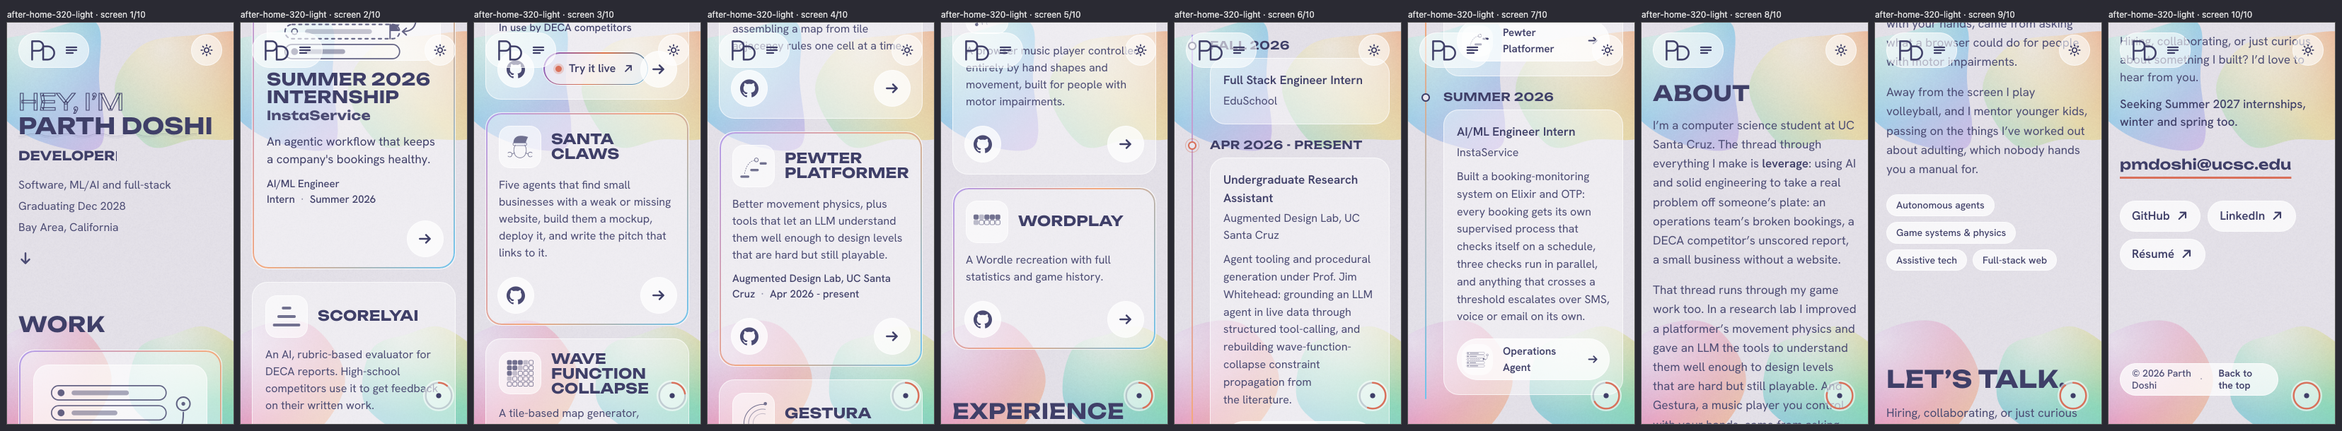
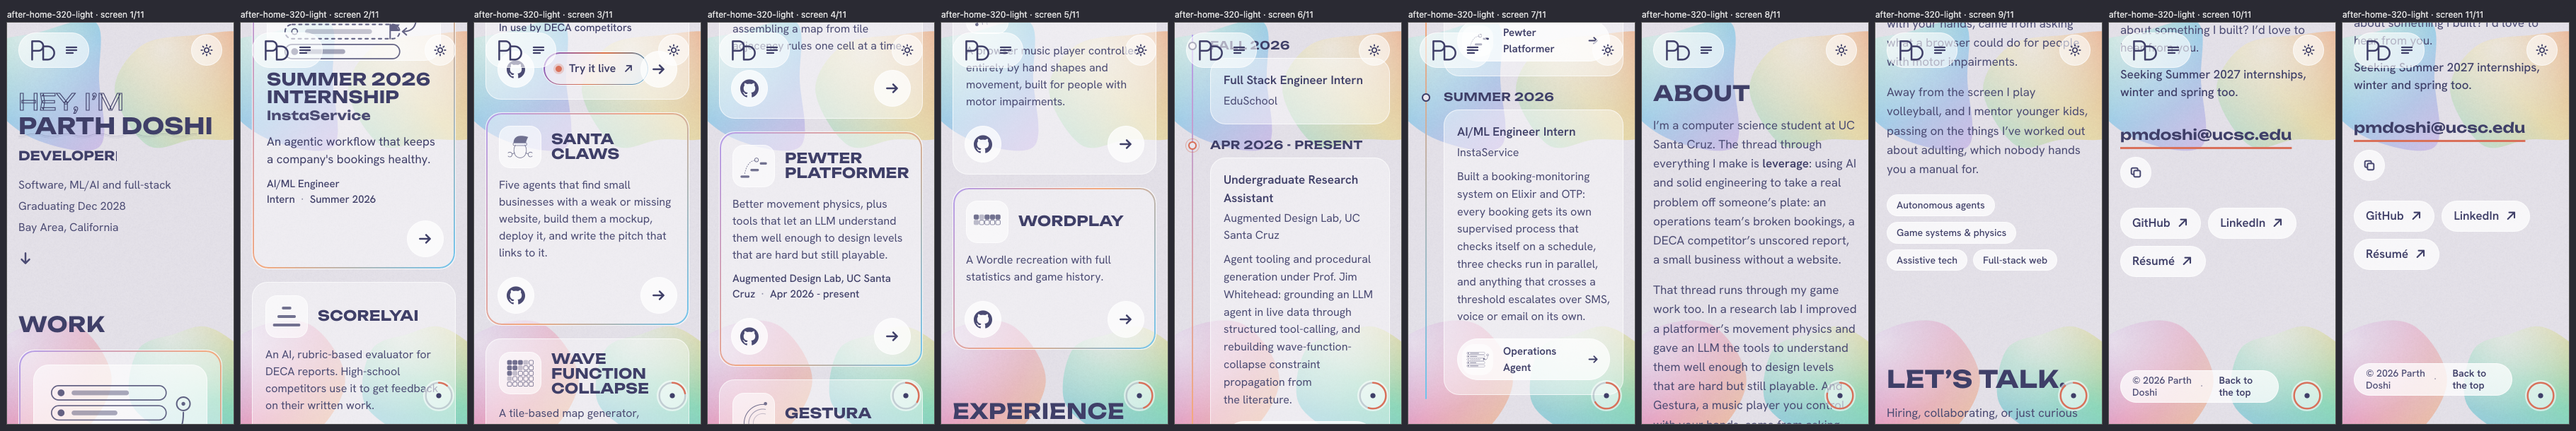
Copy the address
Second commit of PR 05, mobile overhaul (D13). A phone with no mail client
configured opens nothing on mailto:; a recruiter should not have to retype
an address they cannot send to. Adds CopyEmail.tsx (client, tiny): a 44px
button beside the email that copies it to the clipboard, shows a check for
1.6s (crossfade, a 0.85 settle dropped under reduced motion, per
emil-design-eng - nothing enters from scale(0)), and carries the same word
to a screen reader via aria-live. Renders on every device, not phone-only,
per the plan's own instruction not to branch this in JS.

Wraps the email in a new .address flex row in both places it appears -
Contact and the case-study foot (app/work/[slug]/page.tsx) - so the
control sits inline with it; the menu foot (PR 04) keeps its own markup
unchanged. Icon.tsx gains Copy and Check, drawn to match the existing
arrow icons (20x20 box, 2.25 stroke).

One adaptation beyond the doc's literal CSS: an existing rule,
".case__foot .contact__email { margin-top: 28px }", has the same
specificity as the new ".address .contact__email { margin-top: 0 }" and
sits later in the file, so it would have won by source order and
reintroduced the margin the wrapper now carries - doubling the gap above
the case-foot email specifically. Retired that rule in favour of
".case__foot .address { margin-top: 28px }", which puts the case foot's
distinct (vs Contact's 26px) spacing on the wrapper instead, where PR 05's
own new rules already look for it.
[…]

diff --git a/app/globals.css b/app/globals.css
@@ -3540,6 +3540,82 @@ svg {
   }
 }
 
+/* The copy control (D13): a phone with no mail client configured opens
+ * nothing on mailto:, and a recruiter should not have to retype an
+ * address. Renders beside the email wherever it appears (Contact, the case
+ * foot); the menu foot does not use this wrapper. */
+.address {
+  display: flex;
+  align-items: center;
+  flex-wrap: wrap;
+  gap: 8px 14px;
+  margin-top: 26px;
+}
+.address .contact__email {
+  margin-top: 0;
+}
+.copy {
+  position: relative;
+  display: grid;
+  place-items: center;
+  width: 44px;
+  height: 44px;
+  padding: 0;
+  border-radius: 999px;
+  border: 1px solid var(--glass-edge);
+  background: var(--glass-raised);
+  color: var(--ink-2);
+  cursor: pointer;
+  transition:
+    transform 160ms var(--ease-out),
+    border-color 200ms var(--ease-out);
+}
+.copy:active {
+  transform: scale(0.97);
+}
+.copy__icon {
+  grid-area: 1 / 1;
+  width: 18px;
+  height: 18px;
+  opacity: 0;
+  transition:
+    opacity 160ms var(--ease-out),
+    transform 160ms var(--ease-out);
+}
+.copy__icon svg {
+  width: 100%;
+  height: 100%;
+  fill: none;
+  stroke: currentColor;
+  stroke-width: 2.25;
+  stroke-linecap: round;
+  stroke-linejoin: round;
+}
+.copy__icon--copy {
+  opacity: 1;
+}
+.copy[data-done] .copy__icon--copy {
+  opacity: 0;
+}
+.copy[data-done] .copy__icon--done {
+  opacity: 1;
+  color: var(--signal-ink);
+}
+@media (prefers-reduced-motion: no-preference) {
+  .copy__icon--done {
+    transform: scale(0.85);
+  }
+  .copy[data-done] .copy__icon--done {
+    transform: none;
+  }
+}
+@media (hover: hover) and (pointer: fine) {
+  .copy:hover {
+    border-color: color-mix(in oklab, var(--signal) 40%, var(--glass-edge));
+    color: var(--ink);
+  }
+}
+
 .contact__links {
   display: flex;
   flex-wrap: wrap;
@@ -4142,7 +4218,12 @@ svg {
   color: var(--ink-2);
 }
 
-.case__foot .contact__email {
+/* The address wrapper (.address, PR 05) owns this spacing uniformly now,
+ * on both Contact and the case foot; a same-specificity ".case__foot
+ * .contact__email" rule here would win by source order over ".address
+ * .contact__email" and reintroduce the margin the wrapper already gives,
+ * doubling it. */
+.case__foot .address {
   margin-top: 28px;
 }
 

diff --git a/components/CopyEmail.tsx b/components/CopyEmail.tsx
@@ -1,0 +1,49 @@
+"use client";
+
+import { useEffect, useRef, useState } from "react";
+import { Copy, Check } from "@/components/Icon";
+
+/**
+ * Copies the address. A phone with no mail client configured opens nothing on
+ * mailto:, and a recruiter should not have to retype an address. The control
+ * says what it did for 1.6s, then returns; aria-live carries the same word to
+ * a screen reader.
+ */
+export default function CopyEmail({ email }: { email: string }) {
+  const [done, setDone] = useState(false);
+  const timer = useRef<number | null>(null);
+  useEffect(
+    () => () => {
+      if (timer.current) window.clearTimeout(timer.current);
+    },
+    [],
+  );
+  return (
+    <button
+      type="button"
+      className="copy"
+      data-done={done || undefined}
+      aria-label="Copy email address"
+      onClick={async () => {
+        try {
+          await navigator.clipboard.writeText(email);
+          setDone(true);
+          if (timer.current) window.clearTimeout(timer.current);
+          timer.current = window.setTimeout(() => setDone(false), 1600);
+        } catch {
+          /* No clipboard permission: the address is selectable beside it. */
+        }
+      }}
+    >
+      <span className="copy__icon copy__icon--copy">
+        <Copy />
+      </span>
+      <span className="copy__icon copy__icon--done">
+        <Check />
+      </span>
+      <span className="sr-only" aria-live="polite">
+        {done ? "Copied" : ""}
+      </span>
+    </button>
+  );
+}

diff --git a/app/work/[slug]/page.tsx b/app/work/[slug]/page.tsx
@@ -8,6 +8,7 @@ import CaseStudyHeader from "@/components/CaseStudyHeader";
 import CaseStudySection from "@/components/CaseStudySection";
 import Flow from "@/components/Flow";
 import Slideshow from "@/components/Slideshow";
+import CopyEmail from "@/components/CopyEmail";
 
 export function generateStaticParams() {
   return projects.map((p) => ({ slug: p.slug }));
@@ -114,9 +115,12 @@ export default async function CaseStudyPage({
             ? "I can walk through any decision on this page: why it was built this way, what broke, and what I'd change."
             : "The repo is the detail for now. I can walk through what it does, why it is built this way, and what I'd change."}
         </p>
-        <a className="contact__email" href={`mailto:${links.email}`}>
-          {links.email}
-        </a>
+        <div className="address">
+          <a className="contact__email" href={`mailto:${links.email}`}>
+            {links.email}
+          </a>
+          <CopyEmail email={links.email} />
+        </div>
         {(p.demo || p.href) && (
           <div className="case__foot-links">
             {/* A thing a recruiter can USE outranks a thing they can read, so

diff --git a/components/Icon.tsx b/components/Icon.tsx
@@ -89,3 +89,38 @@ export function Cross({ className = "icon" }: IconProps) {
     </svg>
   );
 }
+
+export function Copy({ className = "icon" }: IconProps) {
+  return (
+    <svg
+      className={className}
+      viewBox="0 0 20 20"
+      fill="none"
+      stroke="currentColor"
+      strokeWidth="2.25"
+      strokeLinecap="round"
+      strokeLinejoin="round"
+      aria-hidden="true"
+    >
+      <rect x="7" y="7" width="10" height="10" rx="2" />
+      <path d="M13 7V5a2 2 0 0 0-2-2H5a2 2 0 0 0-2 2v6a2 2 0 0 0 2 2h2" />
+    </svg>
+  );
+}
+
+export function Check({ className = "icon" }: IconProps) {
+  return (
+    <svg
+      className={className}
+      viewBox="0 0 20 20"
+      fill="none"
+      stroke="currentColor"
+      strokeWidth="2.25"
+      strokeLinecap="round"
+      strokeLinejoin="round"
+      aria-hidden="true"
+    >
+      <path d="M4 10.5l4 4 8-9" />
+    </svg>
+  );
+}

diff --git a/components/Contact.tsx b/components/Contact.tsx
@@ -1,6 +1,7 @@
 import { availability, links } from "@/data/site";
 import { ArrowUpRight } from "@/components/Icon";
 import ResumeLink from "@/components/ResumeLink";
+import CopyEmail from "@/components/CopyEmail";
 
 export default function Contact() {
   return (
@@ -25,9 +26,12 @@ export default function Contact() {
       {availability.seeking && (
         <p className="contact__seeking">{availability.seeking}</p>
       )}
-      <a className="contact__email" href={`mailto:${links.email}`}>
-        {links.email}
-      </a>
+      <div className="address">
+        <a className="contact__email" href={`mailto:${links.email}`}>
+          {links.email}
+        </a>
+        <CopyEmail email={links.email} />
+      </div>
       <div className="contact__links">
         <a
           className="link-arrow"
